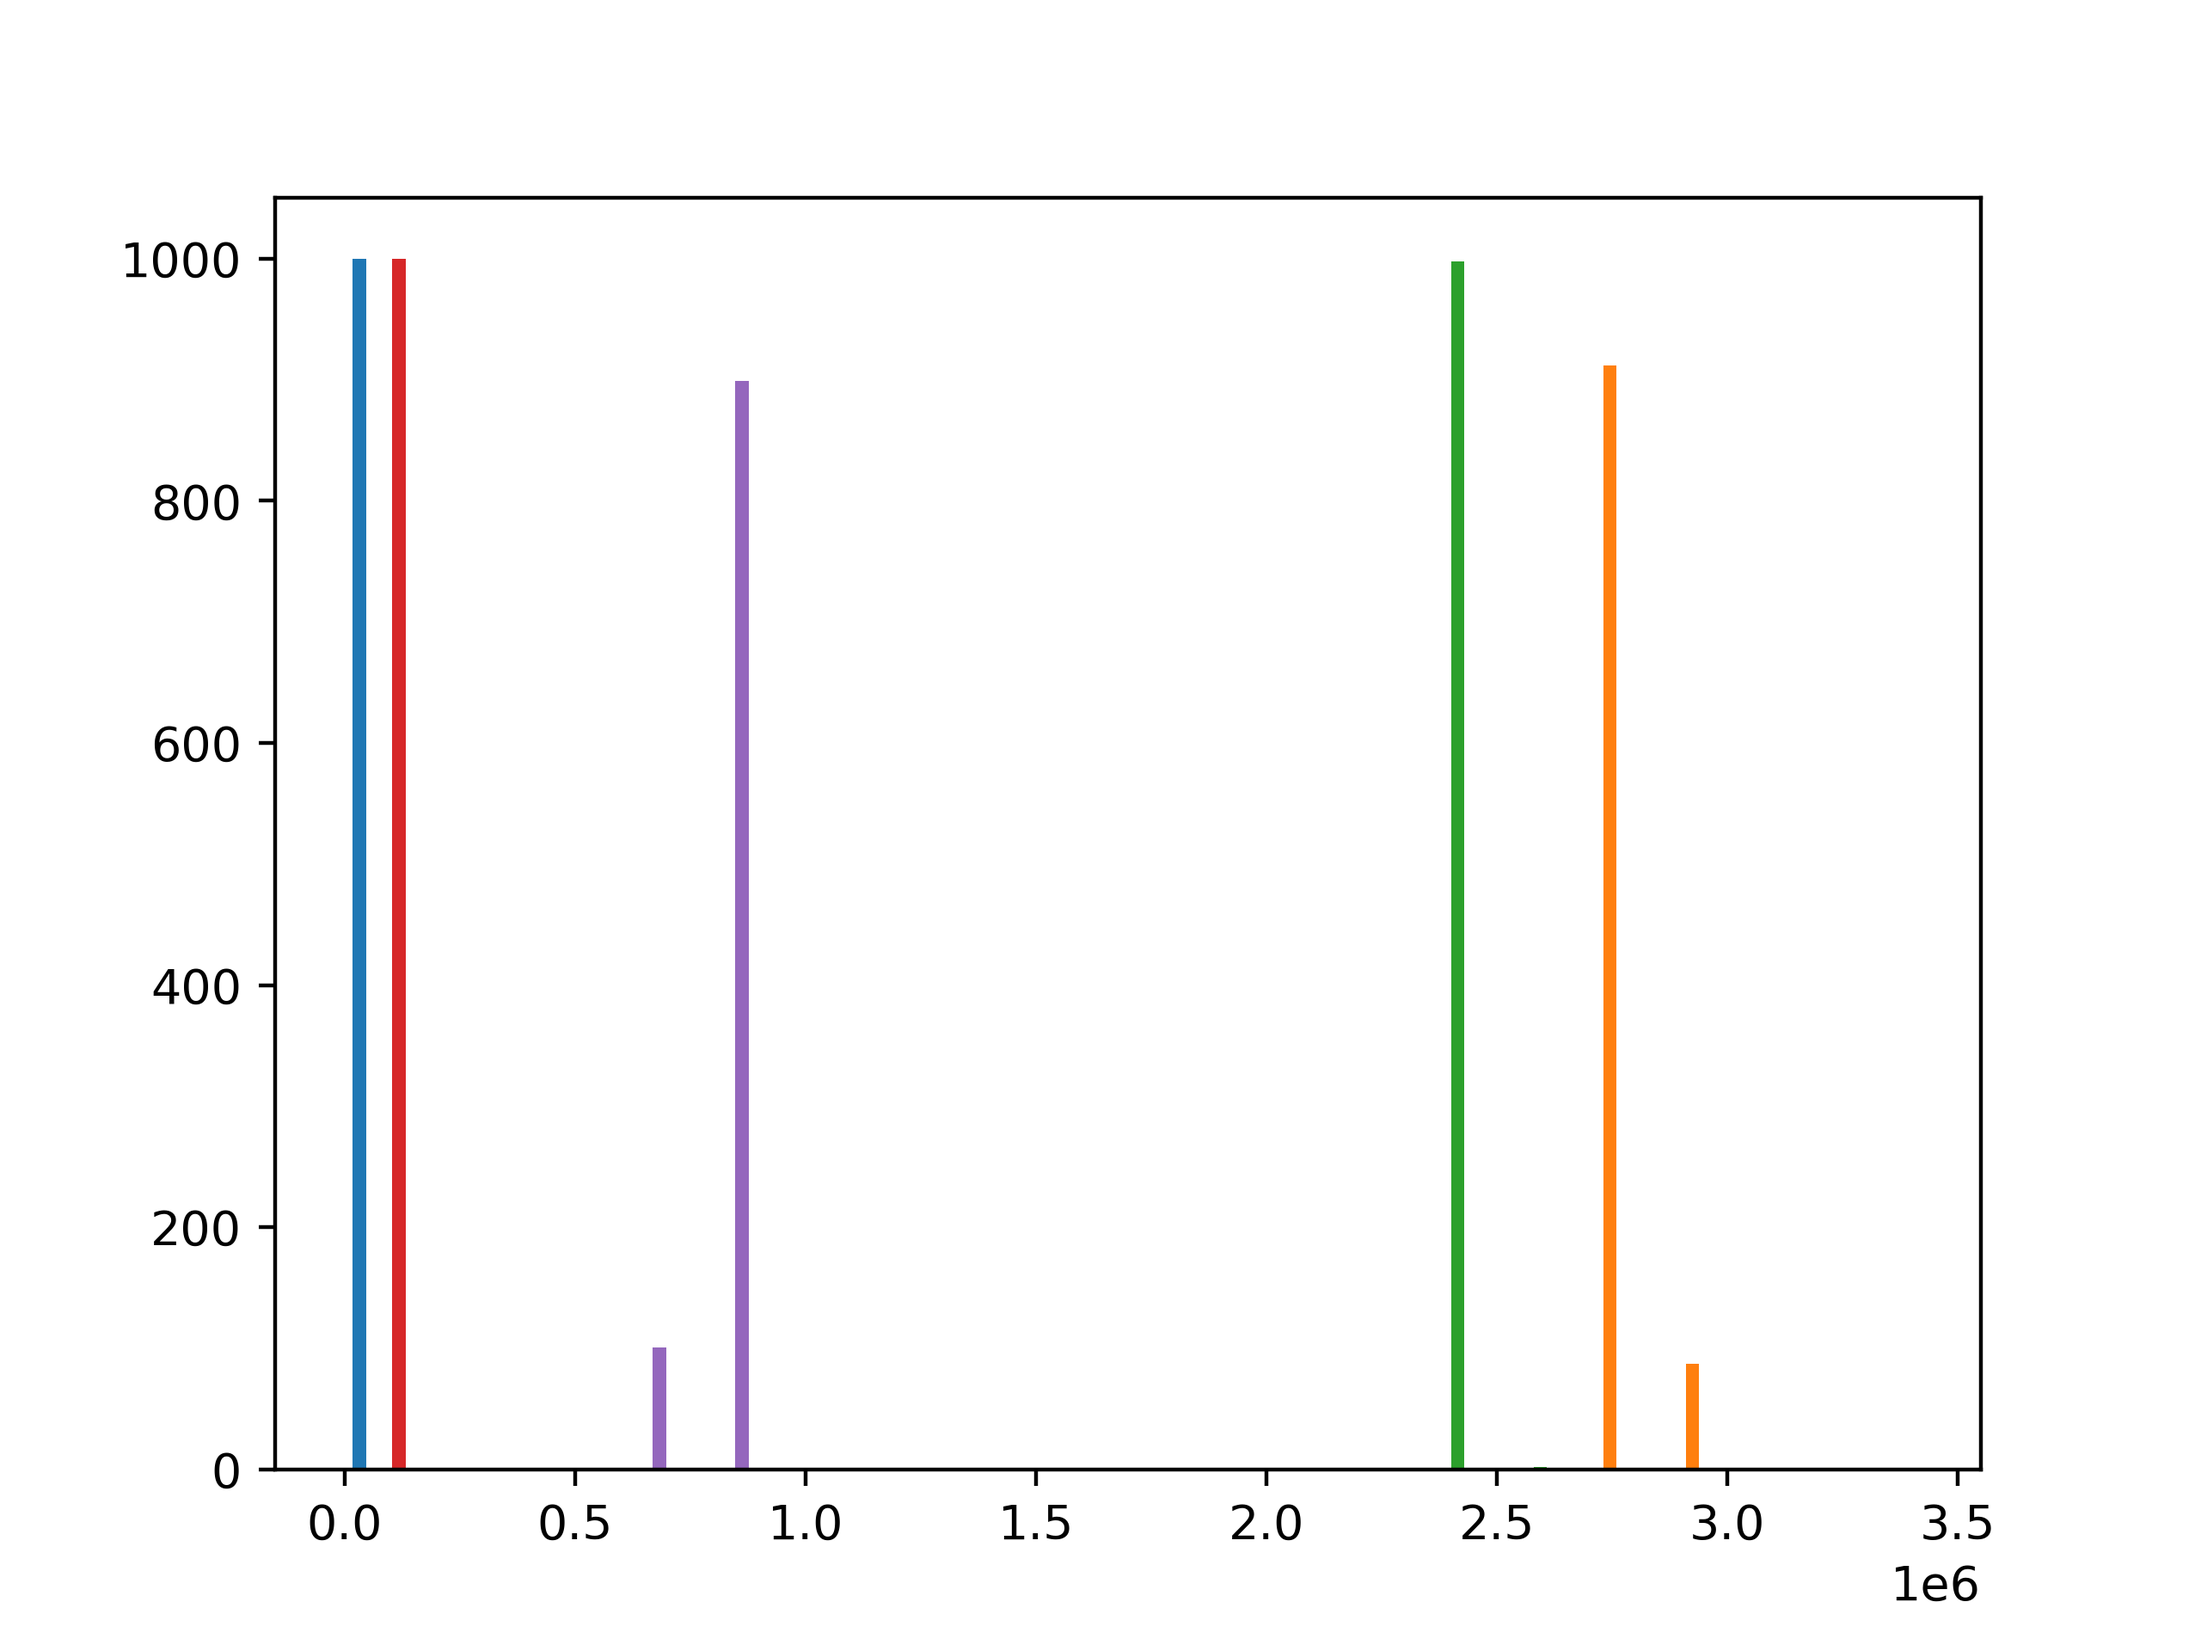
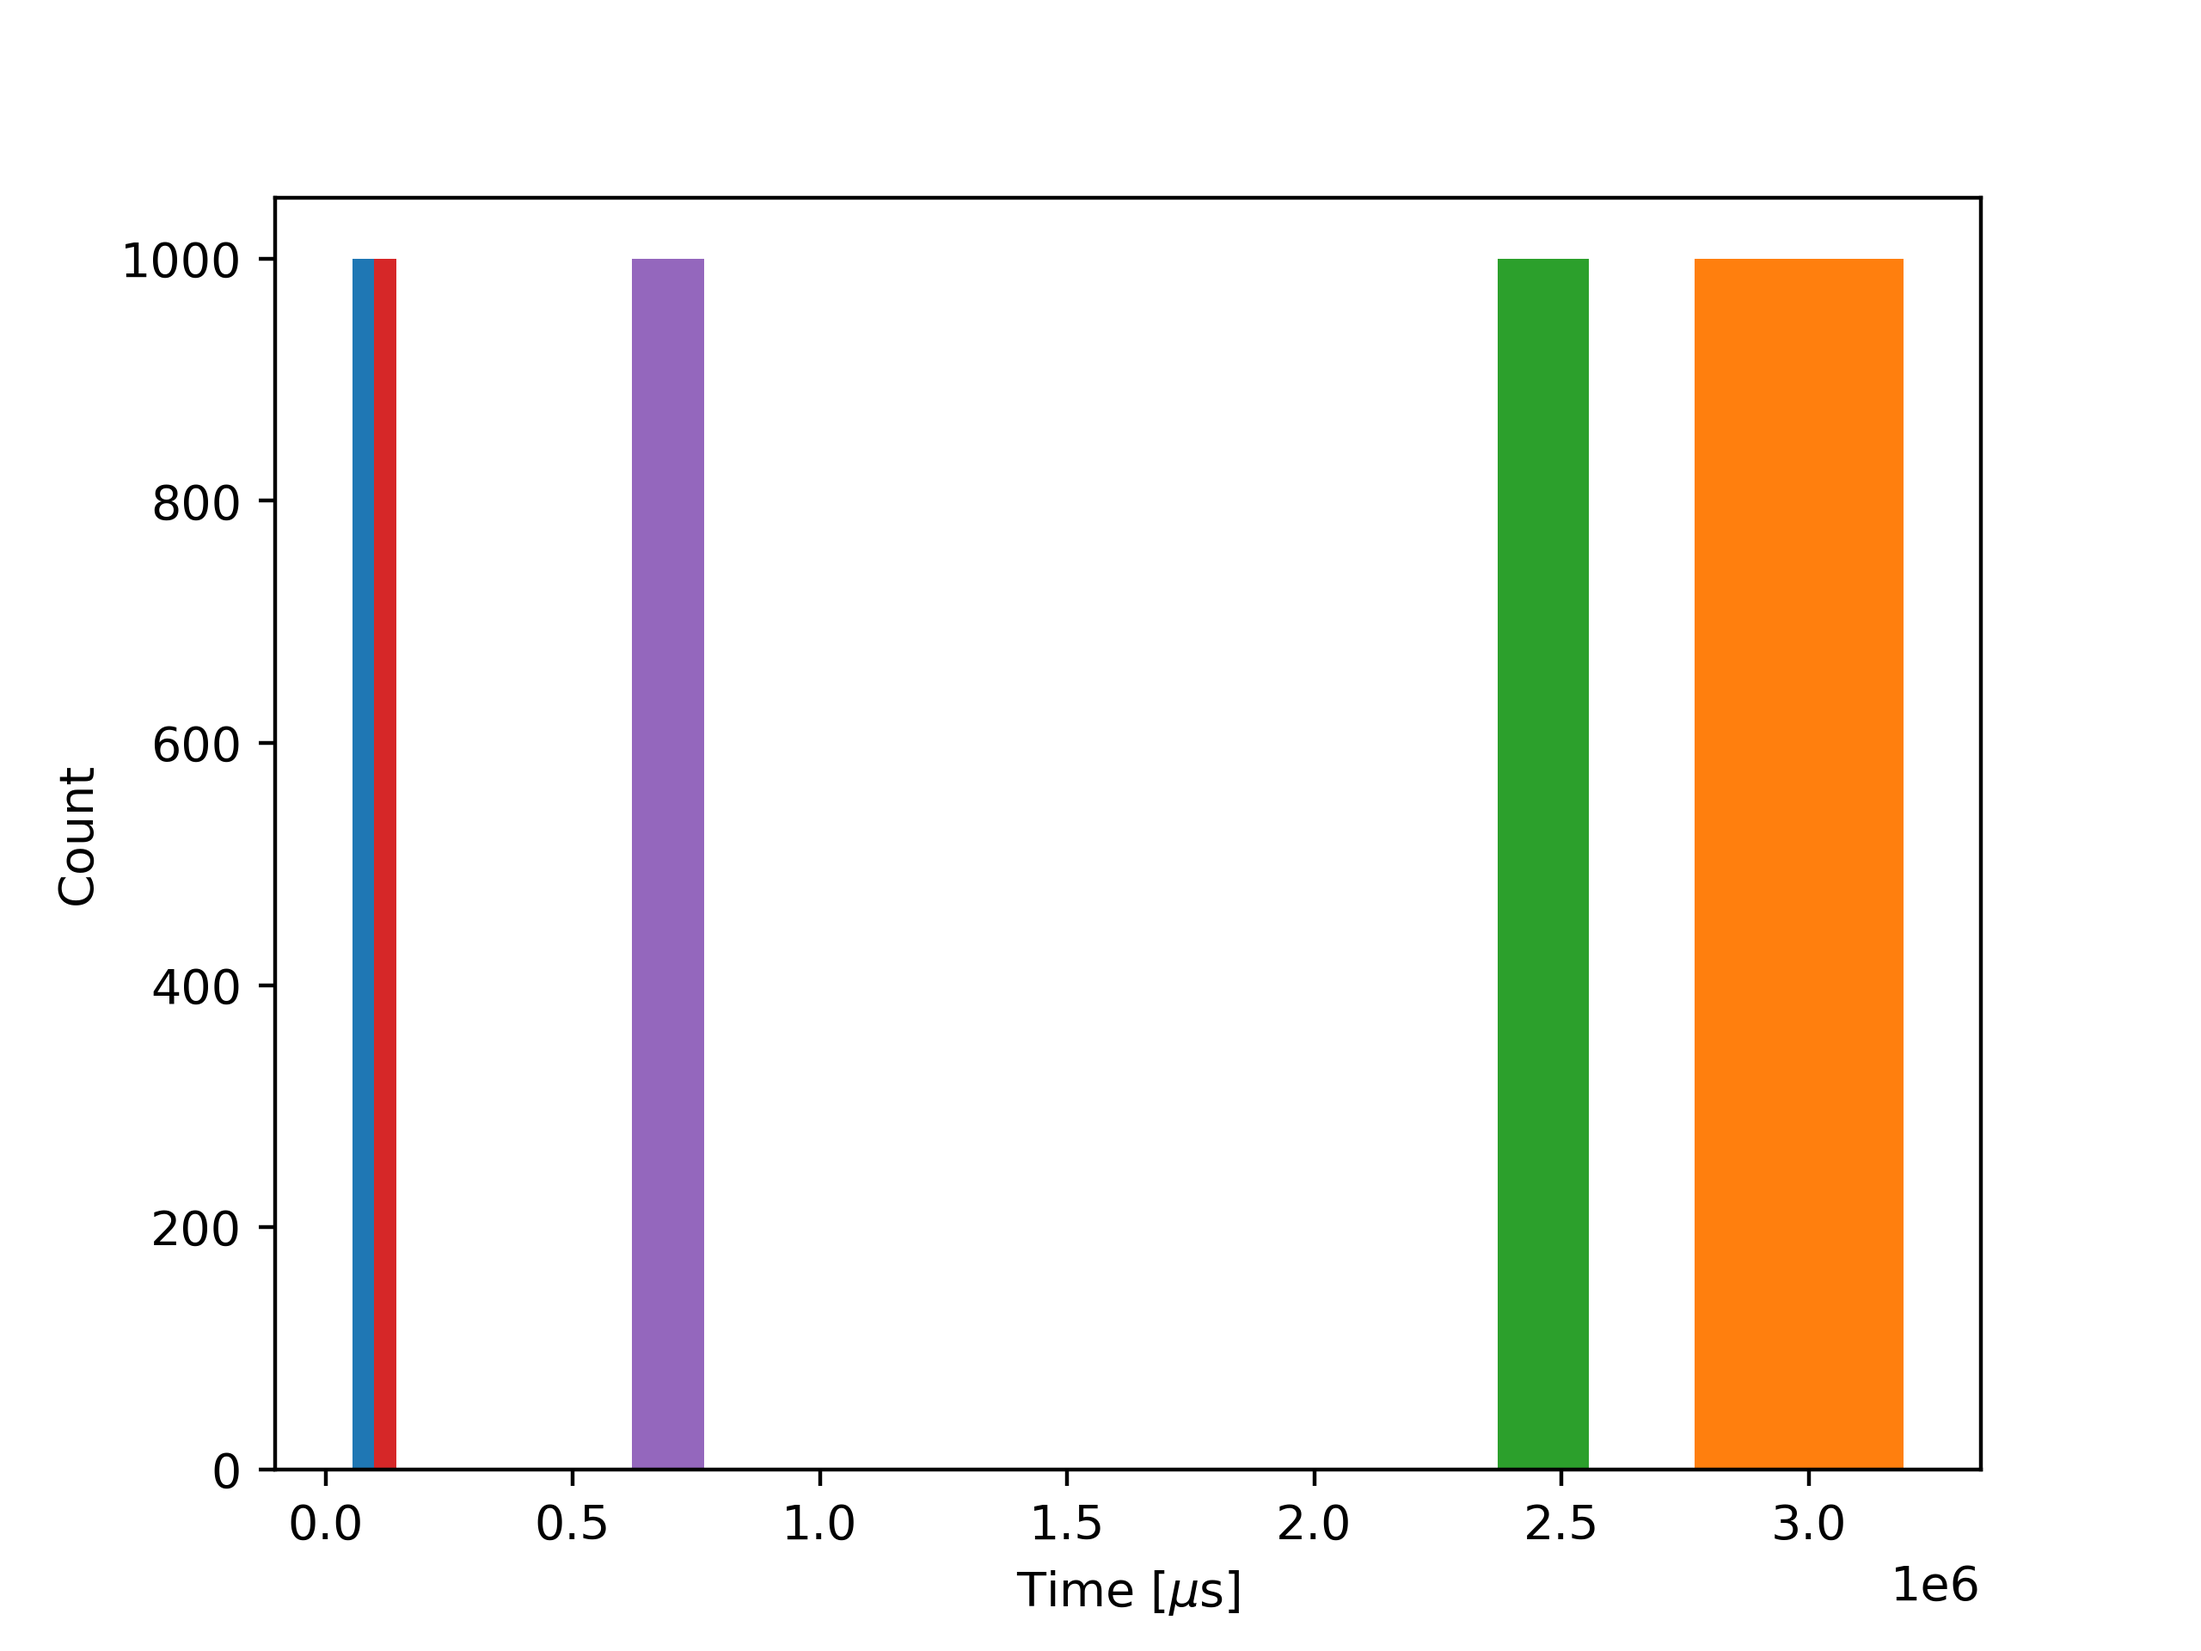
asd

diff --git a/1_data/graph/measure.py b/1_data/graph/measure.py
@@ -19,17 +19,19 @@ while z<len(asd):
     mad.append(np.median(time))
     lab.append(asd[z][:-8])
 
-    # plt.hist(time, bins=20, label=asd[z][:-7])
+    plt.hist(time, bins=1, label=asd[z][:-7])
     z+=1
 
 
-bins=np.linspace(0,3.4e6, 20)
-plt.hist(times, bins, label=[f'CUDA(1e5,1e2): {round(mad[0],2)}', f'python: {round(mad[1],2)}', f'python mpi(3): {round(mad[2],2)}', f'C++: {round(mad[3],2)}', f'C++ mpi(2): {round(mad[4],2)}'])
-
+# bins=np.linspace(0,3.4e6, 20)
+# plt.hist(times, bins, label=[f'CUDA(1e5,1e2): {round(mad[0],2)}', f'python: {round(mad[1],2)}', f'python mpi(3): {round(mad[2],2)}', f'C++: {round(mad[3],2)}', f'C++ mpi(2): {round(mad[4],2)}'])
+# plt.xscale('log')
+plt.xlabel(r'Time [$\mu$s]')# [log scale]')
+plt.ylabel('Count')
 # plt.legend()
 plt.savefig("asd", dpi=400)
 plt.show()
-
+print(mad)
 
 
 
